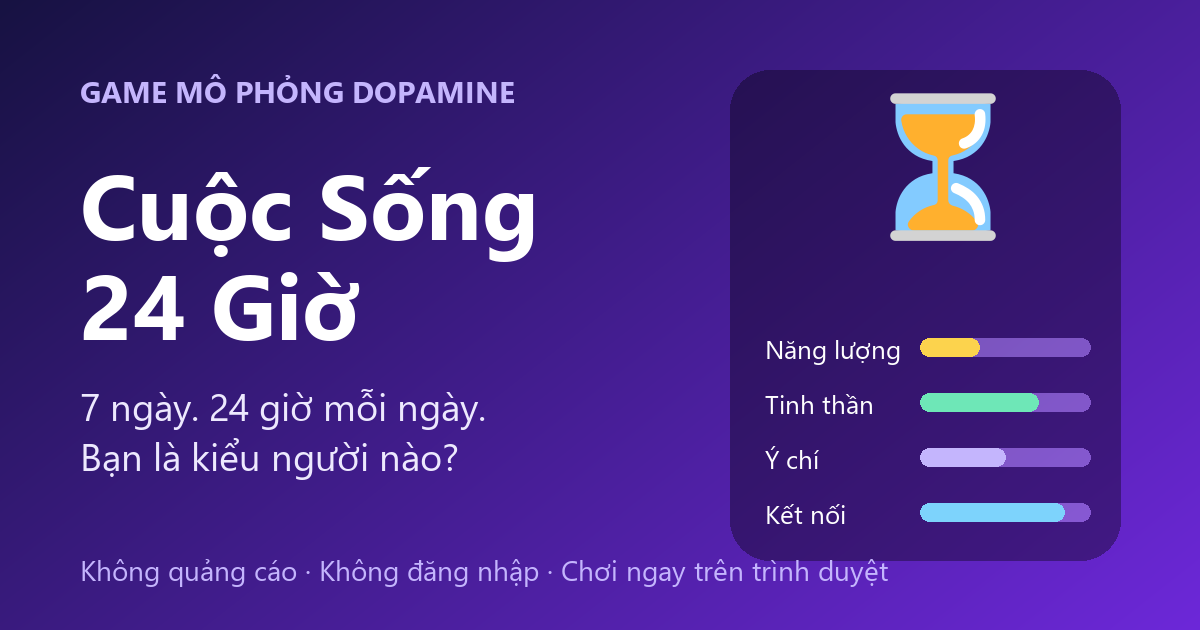
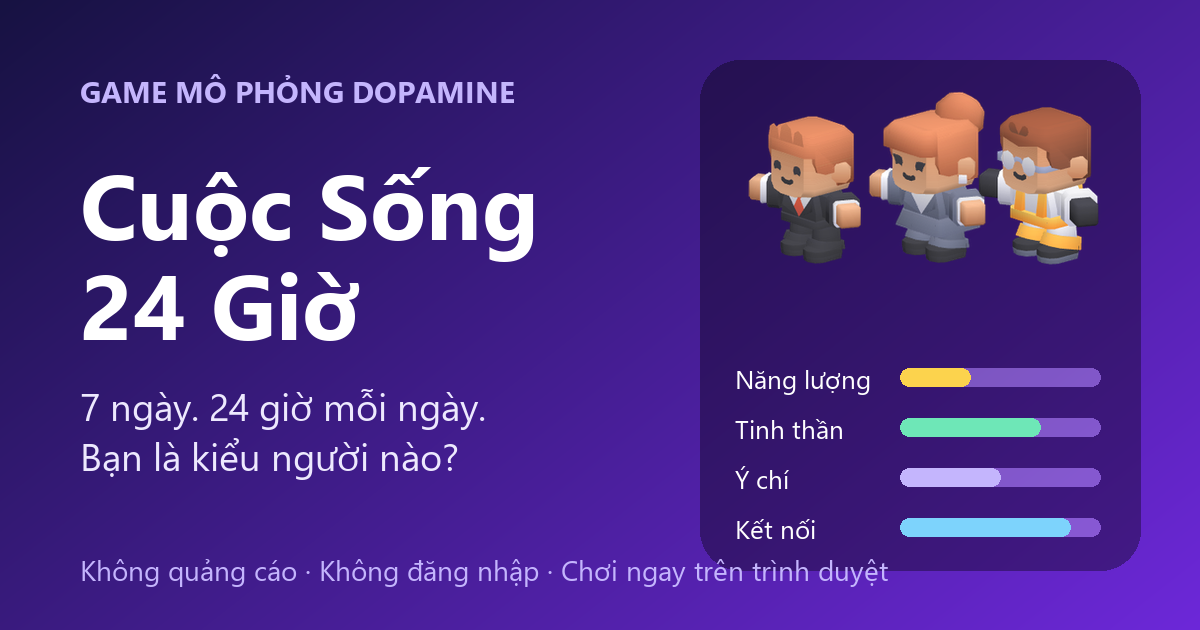
feat: pick a Kenney character, shown in HUD, ending card and share image
Kenney Mini Characters (CC0): 12 GLB models rendered to 192px PNG avatars.
Players pick one in the intro; it is persisted and drawn on the ending
card and the shareable canvas image, so every shared card is different.
Updated OG preview with the characters; add CREDITS.md.

Changed region(s): [[0.5858, 0.0905, 0.9558, 0.9048]]

diff --git a/src/adapters/shareAdapter.ts b/src/adapters/shareAdapter.ts
@@ -6,6 +6,7 @@
 
 import { EndingPrimitive, PlayerStatsPrimitive, buildShareText } from '../domain';
 import { ENDING_PALETTES } from '../lib/endingPalette';
+import { AvatarId, avatarUrl } from '../lib/avatars';
 
 const CARD_W = 1080;
 const CARD_H = 1350;
@@ -52,6 +53,15 @@ function roundRect(ctx: CanvasRenderingContext2D, x: number, y: number, w: numbe
   ctx.closePath();
 }
 
+function loadImage(src: string): Promise<HTMLImageElement | null> {
+  return new Promise((resolve) => {
+    const img = new Image();
+    img.onload = () => resolve(img);
+    img.onerror = () => resolve(null);
+    img.src = src;
+  });
+}
+
 function getGameUrl(): string {
   if (typeof window === 'undefined') return '';
   return `${window.location.origin}${window.location.pathname}`;
@@ -59,7 +69,8 @@ function getGameUrl(): string {
 
 export async function renderShareCard(
   ending: EndingPrimitive,
-  stats: PlayerStatsPrimitive
+  stats: PlayerStatsPrimitive,
+  avatarId: AvatarId
 ): Promise<Blob | null> {
   if (typeof document === 'undefined') return null;
   const canvas = document.createElement('canvas');
@@ -69,6 +80,7 @@ export async function renderShareCard(
   if (!ctx) return null;
 
   const pal = ENDING_PALETTES[ending.palette];
+  const avatar = await loadImage(avatarUrl(avatarId));
 
   // Nền gradient
   const bg = ctx.createLinearGradient(0, 0, CARD_W, CARD_H);
@@ -93,14 +105,24 @@ export async function renderShareCard(
   ctx.fillText('CUỘC SỐNG 24 GIỜ', CARD_W / 2, 90);
 
   // Emoji
-  ctx.font = `170px ${FONT}`;
+  if (avatar) {
+    ctx.imageSmoothingEnabled = true;
+    ctx.imageSmoothingQuality = 'high';
+    ctx.drawImage(avatar, CARD_W / 2 - 135, 110, 270, 270);
+  }
+  // Huy hiệu emoji của kết cục
+  ctx.fillStyle = 'rgba(0,0,0,0.32)';
+  ctx.beginPath();
+  ctx.arc(CARD_W / 2 + 130, 345, 48, 0, Math.PI * 2);
+  ctx.fill();
+  ctx.font = `64px ${FONT}`;
   ctx.fillStyle = '#ffffff';
-  ctx.fillText(ending.emoji, CARD_W / 2, 300);
+  ctx.fillText(ending.emoji, CARD_W / 2 + 130, 368);
 
   // Nhãn "Bạn là"
   ctx.fillStyle = pal.accent;
   ctx.font = `600 38px ${FONT}`;
-  ctx.fillText('BẠN LÀ', CARD_W / 2, 385);
+  ctx.fillText('BẠN LÀ', CARD_W / 2, 420);
 
   // Tên kết cục (tự thu nhỏ nếu quá dài)
   ctx.fillStyle = '#ffffff';
@@ -110,15 +132,15 @@ export async function renderShareCard(
     size -= 4;
     ctx.font = `800 ${size}px ${FONT}`;
   }
-  ctx.fillText(ending.title, CARD_W / 2, 485);
+  ctx.fillText(ending.title, CARD_W / 2, 510);
 
   // Tagline
   ctx.fillStyle = 'rgba(255,255,255,0.92)';
   ctx.font = `italic 500 44px ${FONT}`;
-  const afterTagline = drawWrapped(ctx, `"${ending.tagline}"`, CARD_W / 2, 565, CARD_W - 200, 54);
+  const afterTagline = drawWrapped(ctx, `"${ending.tagline}"`, CARD_W / 2, 585, CARD_W - 200, 54);
 
   // Thẻ điểm + số ngày
-  const cardY = Math.max(afterTagline + 10, 690);
+  const cardY = Math.max(afterTagline + 8, 700);
   ctx.fillStyle = 'rgba(0,0,0,0.28)';
   roundRect(ctx, 90, cardY, CARD_W - 180, 180, 36);
   ctx.fill();
@@ -204,10 +226,10 @@ export const shareAdapter = {
   },
 
   /** Chia sẻ ảnh + văn bản bằng Web Share (mobile). Không hỗ trợ -> tải ảnh xuống và chép văn bản. */
-  async share(ending: EndingPrimitive, stats: PlayerStatsPrimitive): Promise<ShareResult> {
+  async share(ending: EndingPrimitive, stats: PlayerStatsPrimitive, avatarId: AvatarId): Promise<ShareResult> {
     const text = buildShareText(ending, getGameUrl());
     try {
-      const blob = await renderShareCard(ending, stats);
+      const blob = await renderShareCard(ending, stats, avatarId);
       if (blob && typeof navigator !== 'undefined' && navigator.canShare && navigator.share) {
         const file = new File([blob], '24h-life-ket-cuc.png', { type: 'image/png' });
         if (navigator.canShare({ files: [file] })) {

diff --git a/src/ui/EndingModal.tsx b/src/ui/EndingModal.tsx
@@ -1,12 +1,14 @@
 import React, { useEffect, useState } from 'react';
 import { EndingPrimitive, PlayerStatsPrimitive } from '../domain';
 import { ENDING_PALETTES } from '../lib/endingPalette';
+import { AvatarId, avatarUrl } from '../lib/avatars';
 import { Share2, RotateCcw, Check, Copy } from 'lucide-react';
 import confetti from 'canvas-confetti';
 
 interface EndingModalProps {
   ending: EndingPrimitive;
   stats: PlayerStatsPrimitive;
+  avatarId: AvatarId;
   onRestart: () => void;
   onShare: () => Promise<'shared' | 'downloaded' | 'copied' | 'cancelled' | 'failed'>;
   onCopy: () => Promise<boolean>;
@@ -18,7 +20,7 @@ const OUTCOME_LABEL: Record<EndingPrimitive['outcome'], string> = {
   burnout: 'Gục ngã vì kiệt quệ',
 };
 
-export const EndingModal: React.FC<EndingModalProps> = ({ ending, stats, onRestart, onShare, onCopy }) => {
+export const EndingModal: React.FC<EndingModalProps> = ({ ending, stats, avatarId, onRestart, onShare, onCopy }) => {
   const pal = ENDING_PALETTES[ending.palette];
   const [reflection, setReflection] = useState<'less' | 'same' | null>(null);
   const [toast, setToast] = useState<string | null>(null);
@@ -57,8 +59,14 @@ export const EndingModal: React.FC<EndingModalProps> = ({ ending, stats, onResta
           style={{ background: `linear-gradient(145deg, ${pal.from}, ${pal.to})` }}
         >
           <p className="text-[11px] font-semibold tracking-[0.2em] text-white/70">CUỘC SỐNG 24 GIỜ</p>
-          <div className="text-7xl my-3 leading-none" aria-hidden>
-            {ending.emoji}
+          <div className="relative w-36 h-36 mx-auto my-2">
+            <img src={avatarUrl(avatarId)} alt="Nhân vật của bạn" className="w-full h-full drop-shadow-lg" draggable={false} />
+            <span
+              className="absolute -right-1 bottom-0 text-3xl leading-none bg-black/30 rounded-full w-11 h-11 flex items-center justify-center"
+              aria-hidden
+            >
+              {ending.emoji}
+            </span>
           </div>
           <p className="text-xs font-semibold tracking-widest" style={{ color: pal.accent }}>
             BẠN LÀ

diff --git a/src/ui/IntroModal.tsx b/src/ui/IntroModal.tsx
@@ -1,11 +1,14 @@
 import React from 'react';
 import { Clock, Zap, Sprout, Moon } from 'lucide-react';
+import { AVATAR_IDS, AvatarId, avatarUrl } from '../lib/avatars';
 
 interface IntroModalProps {
+  avatarId: AvatarId;
+  onSelectAvatar: (id: AvatarId) => void;
   onStart: () => void;
 }
 
-export const IntroModal: React.FC<IntroModalProps> = ({ onStart }) => (
+export const IntroModal: React.FC<IntroModalProps> = ({ avatarId, onSelectAvatar, onStart }) => (
   <div className="fixed inset-0 z-[60] bg-stone-900/80 backdrop-blur-xs flex items-center justify-center p-4 overflow-y-auto">
     <div className="bg-white rounded-3xl shadow-2xl max-w-md w-full p-6 space-y-5 animate-in fade-in zoom-in-95 duration-200">
       <div className="text-center space-y-1">
@@ -42,6 +45,26 @@ export const IntroModal: React.FC<IntroModalProps> = ({ onStart }) => (
           </span>
         </li>
       </ul>
+
+      <div>
+        <p className="text-xs font-semibold text-stone-700 mb-2 text-center">Chọn nhân vật của bạn</p>
+        <div className="grid grid-cols-6 gap-1.5" role="radiogroup" aria-label="Chọn nhân vật">
+          {AVATAR_IDS.map((id) => (
+            <button
+              key={id}
+              role="radio"
+              aria-checked={avatarId === id}
+              aria-label={`Nhân vật ${id}`}
+              onClick={() => onSelectAvatar(id)}
+              className={`rounded-xl p-0.5 border-2 transition-all bg-stone-100 ${
+                avatarId === id ? 'border-indigo-600 bg-indigo-50 scale-105' : 'border-transparent hover:border-stone-300'
+              }`}
+            >
+              <img src={avatarUrl(id)} alt="" width={48} height={48} className="w-full h-auto" draggable={false} />
+            </button>
+          ))}
+        </div>
+      </div>
 
       <button
         onClick={onStart}

diff --git a/src/adapters/useGameAdapter.ts b/src/adapters/useGameAdapter.ts
@@ -19,6 +19,7 @@ import {
 } from '../domain';
 import { storageAdapter } from './storageAdapter';
 import { audioAdapter } from './audioAdapter';
+import { AvatarId, DEFAULT_AVATAR, isAvatarId } from '../lib/avatars';
 
 export function useGameAdapter() {
   const [day, setDay] = useState<number>(1);
@@ -28,6 +29,7 @@ export function useGameAdapter() {
   const [actionsTodayIds, setActionsTodayIds] = useState<string[]>([]);
   const [soundEnabled, setSoundEnabled] = useState<boolean>(true);
   const [history, setHistory] = useState<string[][]>([]);
+  const [avatarId, setAvatarId] = useState<AvatarId>(DEFAULT_AVATAR);
   const [finished, setFinished] = useState<boolean>(false);
   const [isIntroOpen, setIsIntroOpen] = useState<boolean>(() => !storageAdapter.hasSeenIntro());
 
@@ -48,6 +50,7 @@ export function useGameAdapter() {
       setSoundEnabled(saved.soundEnabled);
       setHistory(saved.history ?? []);
       setFinished(saved.finished ?? false);
+      if (isAvatarId(saved.avatarId)) setAvatarId(saved.avatarId);
       audioAdapter.enabled = saved.soundEnabled;
     }
   }, []);
@@ -63,8 +66,9 @@ export function useGameAdapter() {
       soundEnabled,
       history,
       finished,
+      avatarId,
     });
-  }, [day, hoursUsed, stats, sleepDebt, actionsTodayIds, soundEnabled, history, finished]);
+  }, [day, hoursUsed, stats, sleepDebt, actionsTodayIds, soundEnabled, history, finished, avatarId]);
 
   const hoursRemaining = Math.max(0, 24 - hoursUsed);
 
@@ -205,6 +209,8 @@ export function useGameAdapter() {
     morningReport,
     activeEvent,
     ending,
+    avatarId,
+    setAvatarId,
     isIntroOpen,
     soundEnabled,
     takeAction,

diff --git a/src/ui/TopNav.tsx b/src/ui/TopNav.tsx
@@ -1,11 +1,13 @@
 import React from 'react';
 import { getWeekdayLabel } from '../domain';
+import { AvatarId, avatarUrl } from '../lib/avatars';
 import { Volume2, VolumeX, RotateCcw, Activity, Play, HelpCircle } from 'lucide-react';
 
 interface TopNavProps {
   currentTab: 'game' | 'simulate' | 'guide';
   onTabChange: (tab: 'game' | 'simulate' | 'guide') => void;
   day: number;
+  avatarId: AvatarId;
   soundEnabled: boolean;
   onToggleSound: () => void;
   onResetGame: () => void;
@@ -15,6 +17,7 @@ export const TopNav: React.FC<TopNavProps> = ({
   currentTab,
   onTabChange,
   day,
+  avatarId,
   soundEnabled,
   onToggleSound,
   onResetGame,
@@ -24,6 +27,7 @@ export const TopNav: React.FC<TopNavProps> = ({
       <div className="max-w-6xl mx-auto px-4 sm:px-6 h-14 flex items-center justify-between">
         {/* Zone 1: Single Brand element */}
         <div className="flex items-center gap-3">
+          <img src={avatarUrl(avatarId)} alt="" width={32} height={32} className="w-8 h-8 -ml-1" draggable={false} />
           <span className="text-base sm:text-lg font-bold tracking-tight text-stone-900 font-sans">
             Cuộc Sống 24 Giờ
           </span>

diff --git a/src/App.tsx b/src/App.tsx
@@ -31,6 +31,8 @@ export default function App() {
     morningReport,
     activeEvent,
     ending,
+    avatarId,
+    setAvatarId,
     isIntroOpen,
     dismissIntro,
     soundEnabled,
@@ -50,6 +52,7 @@ export default function App() {
         currentTab={currentTab}
         onTabChange={setCurrentTab}
         day={day}
+        avatarId={avatarId}
         soundEnabled={soundEnabled}
         onToggleSound={toggleSound}
         onResetGame={resetGame}
@@ -149,13 +152,14 @@ export default function App() {
         <EndingModal
           ending={ending}
           stats={stats}
+          avatarId={avatarId}
           onRestart={resetGame}
-          onShare={() => shareAdapter.share(ending, stats)}
+          onShare={() => shareAdapter.share(ending, stats, avatarId)}
           onCopy={() => shareAdapter.copy(ending)}
         />
       )}
 
-      {isIntroOpen && !ending && <IntroModal onStart={dismissIntro} />}
+      {isIntroOpen && !ending && <IntroModal avatarId={avatarId} onSelectAvatar={setAvatarId} onStart={dismissIntro} />}
     </div>
   );
 }

diff --git a/src/lib/avatars.ts b/src/lib/avatars.ts
@@ -1,0 +1,17 @@
+/** Danh sách nhân vật (Kenney Mini Characters, CC0) - ảnh nằm trong public/avatars. */
+export const AVATAR_IDS = [
+  'male-a', 'female-a', 'male-b', 'female-b', 'male-c', 'female-c',
+  'male-d', 'female-d', 'male-e', 'female-e', 'male-f', 'female-f',
+] as const;
+
+export type AvatarId = (typeof AVATAR_IDS)[number];
+
+export const DEFAULT_AVATAR: AvatarId = 'male-d';
+
+export function isAvatarId(value: unknown): value is AvatarId {
+  return typeof value === 'string' && (AVATAR_IDS as readonly string[]).includes(value);
+}
+
+export function avatarUrl(id: AvatarId): string {
+  return `/avatars/${id}.png`;
+}

diff --git a/src/adapters/storageAdapter.ts b/src/adapters/storageAdapter.ts
@@ -14,6 +14,8 @@ export interface SerializedGameState {
   soundEnabled: boolean;
   /** Hành vi đã làm của các ngày đã qua (để tính kết cục) */
   history?: string[][];
+  /** Nhân vật người chơi đã chọn */
+  avatarId?: string;
   /** Ván đã kết thúc (sụp đổ hoặc đủ 7 ngày) */
   finished?: boolean;
 }

diff --git a/ROADMAP.md b/ROADMAP.md
@@ -109,6 +109,7 @@ Mục tiêu: mỗi ván kết thúc bằng một khoảnh khắc đáng khoe, kh
 - [x] **`IntroModal`** cho lần chơi đầu (hiểu game trong 30 giây).
 - [x] **SEO/OG**: `public/og.png`, favicon, thẻ OG/Twitter, canonical; `vite.config.ts` tự điền URL tuyệt đối từ `VITE_SITE_URL` hoặc `VERCEL_PROJECT_PRODUCTION_URL`.
 - [x] Dọn gói/file không dùng (`express`, `dotenv`, `@google/genai`, `motion`, `lib/sound.ts`, `lib/storage.ts`).
+- [x] **Nhân vật (Kenney Mini Characters, CC0)**: người chơi chọn 1 trong 12 nhân vật ở màn giới thiệu; hiện ở thanh trên, thẻ kết cục và ảnh chia sẻ (mỗi ảnh khác nhau → dễ khoe). Mô hình 3D được render sang PNG 192px (`public/avatars/`, ~320KB tổng). Nguồn: `CREDITS.md`.
 - [x] Kiểm thử UI tự động bằng Playwright (Edge headless): intro → chơi → kết cục → chia sẻ → reload → chơi lại, cả desktop và mobile.
 
 ### 📅 TUẦN 4: Cân Bằng Dựa Trên Dữ Liệu & Nâng Cấp Âm Thanh

diff --git a/CREDITS.md b/CREDITS.md
@@ -1,0 +1,5 @@
+# Credits
+
+## Artwork
+- **Mini Characters** by [Kenney](https://www.kenney.nl) - License: [CC0 1.0](https://creativecommons.org/publicdomain/zero/1.0/).
+  The 3D models were rendered to 2D PNG avatars (`public/avatars/`). Attribution is not required but is given with thanks.
